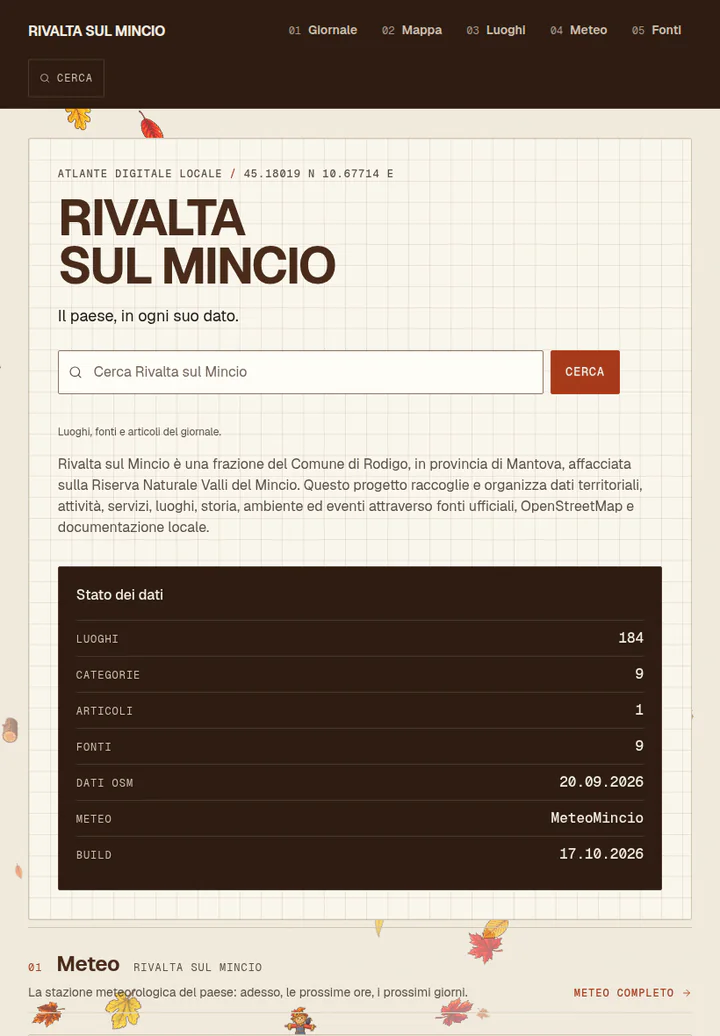
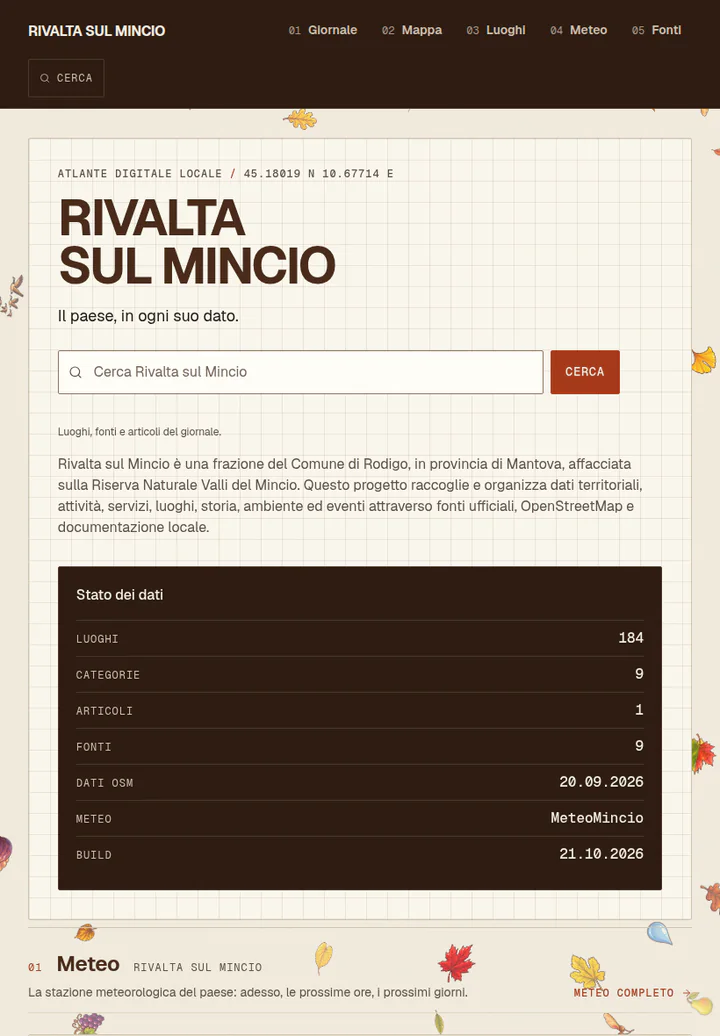
Catture aggiornate: Rivalta sul Mincio
Rifatte da .github/workflows/catture.yml: il sito online era cambiato.

diff --git a/albertopecchini.it/src/data/catture.js b/albertopecchini.it/src/data/catture.js
@@ -38,12 +38,12 @@ export const catture = {
   'pzk-notte-desktop.webp': { w: 1200, h: 750, v: '456b22f1' },
   'pzk-roulette-tablet.webp': { w: 720, h: 960, v: '14cd4672' },
   'pzk-tablet.webp': { w: 720, h: 1036, v: 'b7b9cc00' },
-  'rivalta-desktop-tall.webp': { w: 1200, h: 2833, v: '918e00f4' },
-  'rivalta-desktop.webp': { w: 1200, h: 750, v: '686a3016' },
-  'rivalta-luogo-tablet.webp': { w: 720, h: 960, v: '52e87b55' },
-  'rivalta-mappa-desktop.webp': { w: 1200, h: 750, v: '08a62483' },
-  'rivalta-mappa-mobile.webp': { w: 600, h: 1298, v: '74625b57' },
-  'rivalta-mobile-tall.webp': { w: 600, h: 4000, v: 'c5807da9' },
-  'rivalta-mobile.webp': { w: 600, h: 1298, v: '42a09b1f' },
-  'rivalta-tablet.webp': { w: 720, h: 1036, v: '0c481966' },
+  'rivalta-desktop-tall.webp': { w: 1200, h: 2833, v: '77dd3fd6' },
+  'rivalta-desktop.webp': { w: 1200, h: 750, v: '3d401679' },
+  'rivalta-luogo-tablet.webp': { w: 720, h: 960, v: 'c23003d4' },
+  'rivalta-mappa-desktop.webp': { w: 1200, h: 750, v: 'b7141bbb' },
+  'rivalta-mappa-mobile.webp': { w: 600, h: 1298, v: '8d9eac74' },
+  'rivalta-mobile-tall.webp': { w: 600, h: 4000, v: 'd2e79860' },
+  'rivalta-mobile.webp': { w: 600, h: 1298, v: 'ba22e30c' },
+  'rivalta-tablet.webp': { w: 720, h: 1036, v: '9434a93f' },
 }
